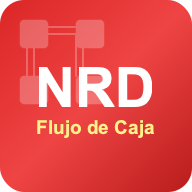
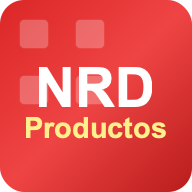
Generar iconos personalizados con texto 'NRD Productos'

Changed region(s): [[0.125, 0.5938, 0.875, 0.75], [0.25, 0.125, 0.4375, 0.4062], [0.125, 0.25, 0.1875, 0.4062]]

diff --git a/index.html b/index.html
@@ -7,7 +7,7 @@
   <title>NRD Productos</title>
   <link rel="manifest" href="manifest.json">
   <script src="https://cdn.tailwindcss.com"></script>
-  <link rel="stylesheet" href="styles.css?v=1768857355503">
+  <link rel="stylesheet" href="styles.css?v=1768857392320">
   <meta name="theme-color" content="#dc2626">
   <link rel="icon" type="image/png" sizes="192x192" href="icon-192.png">
   <link rel="apple-touch-icon" href="icon-192.png">
@@ -249,11 +249,11 @@
   <script src="https://cdn.jsdelivr.net/gh/yosbany/nrd-data-access@main/dist/nrd-data-access.js"></script>
   
   <!-- App Scripts -->
-  <script src="logger.js?v=1768857355503"></script>
-  <script src="modal.js?v=1768857355503"></script>
-  <script src="auth.js?v=1768857355503"></script>
-  <script src="tabs/products.js?v=1768857355503"></script>
-  <script src="app.js?v=1768857355503"></script>
+  <script src="logger.js?v=1768857392320"></script>
+  <script src="modal.js?v=1768857392320"></script>
+  <script src="auth.js?v=1768857392320"></script>
+  <script src="tabs/products.js?v=1768857392320"></script>
+  <script src="app.js?v=1768857392320"></script>
 
   <script>
     // Initialize NRD Data Access Library
@@ -263,7 +263,7 @@
     // Register service worker
     if ('serviceWorker' in navigator) {
       window.addEventListener('load', () => {
-        navigator.serviceWorker.register('service-worker.js?v=1768857355503')
+        navigator.serviceWorker.register('service-worker.js?v=1768857392320')
           .then(reg => {
             logger.info('Service Worker registered');
             reg.addEventListener('updatefound', () => {
